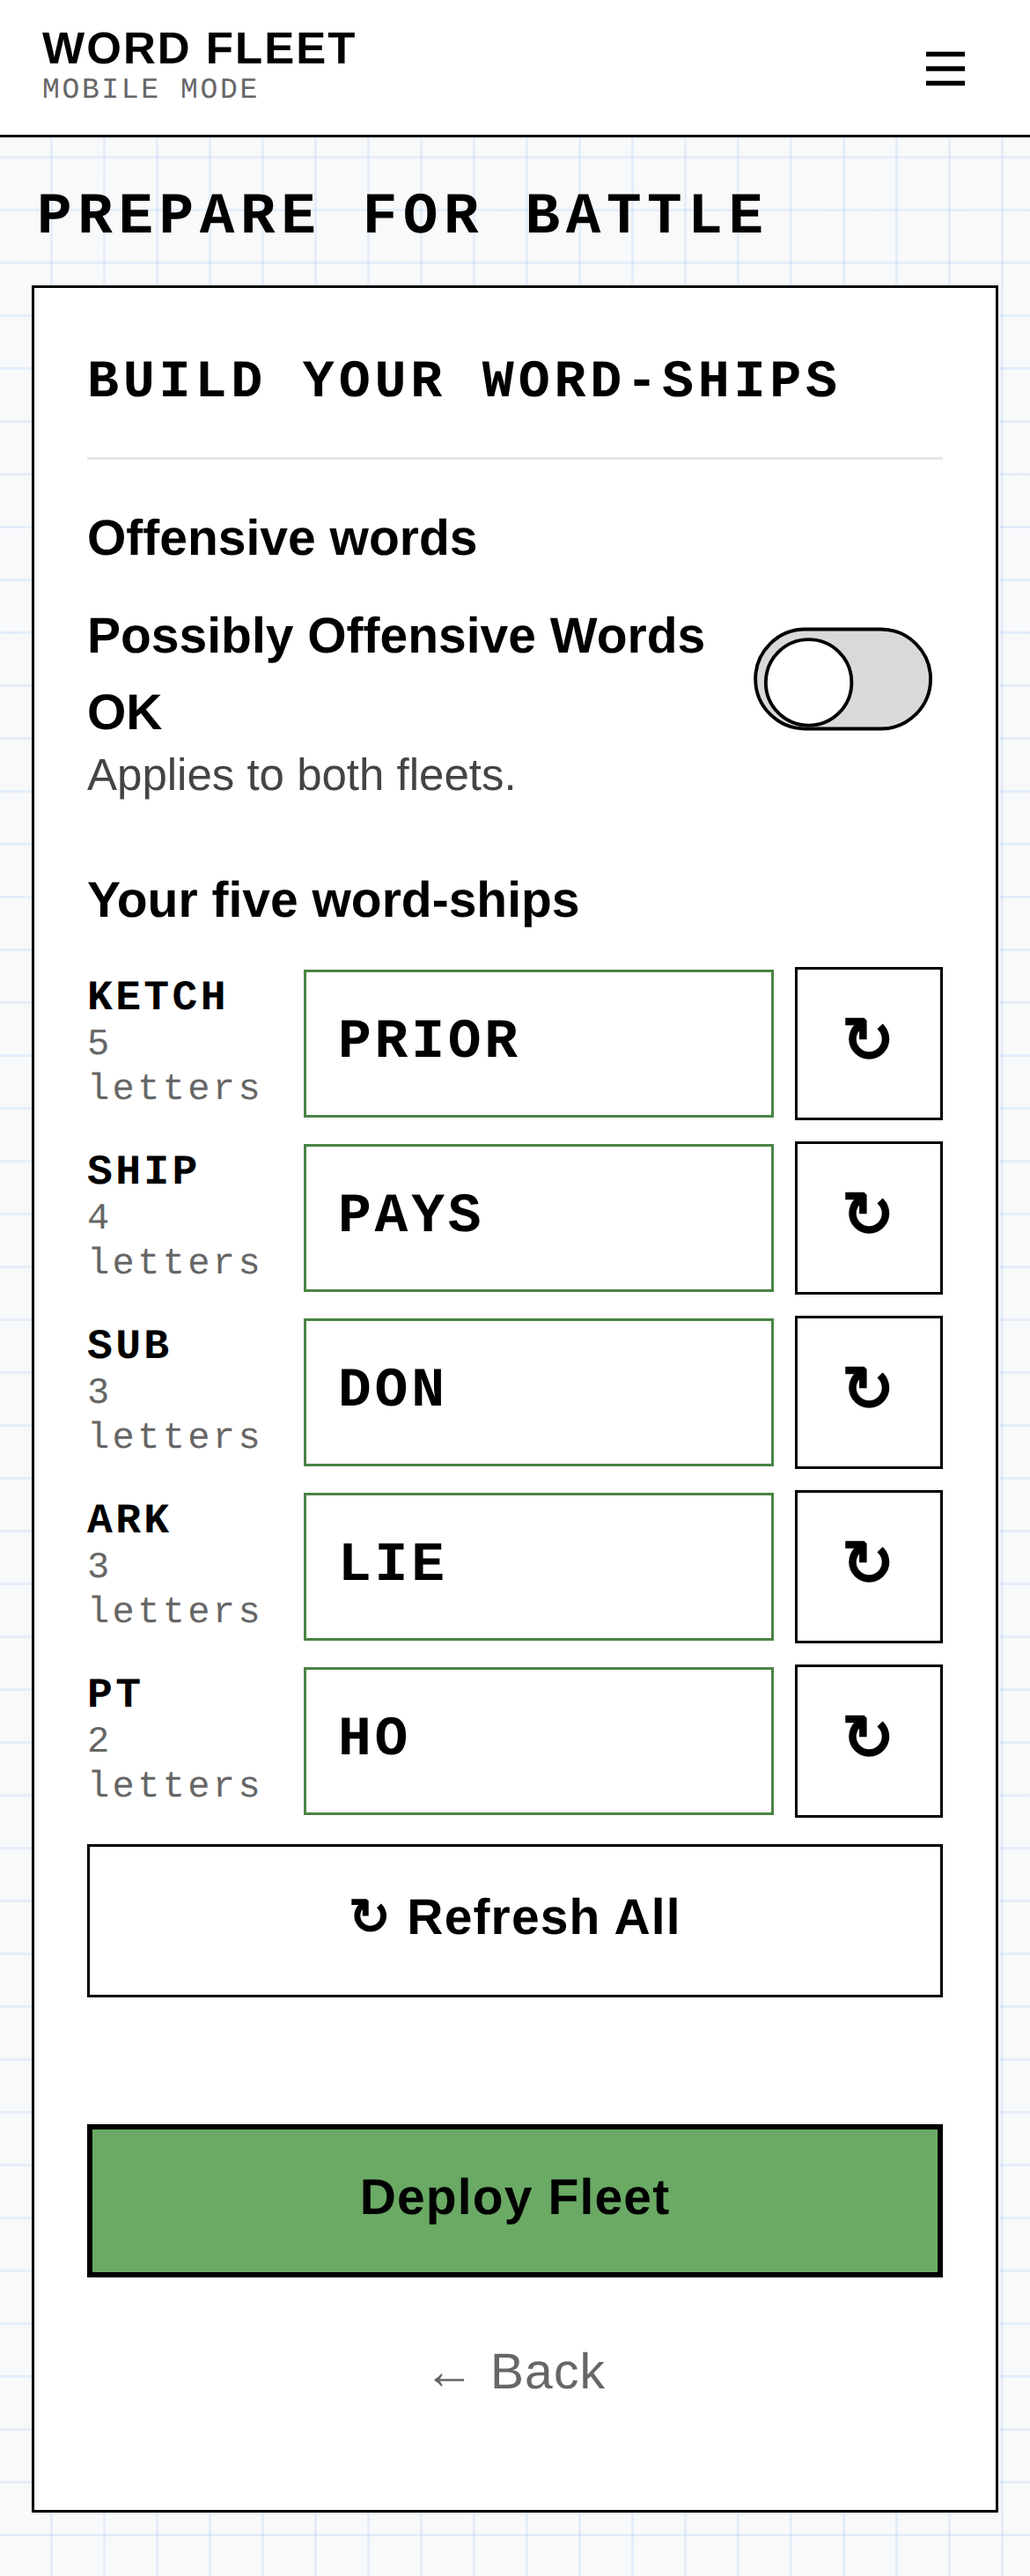
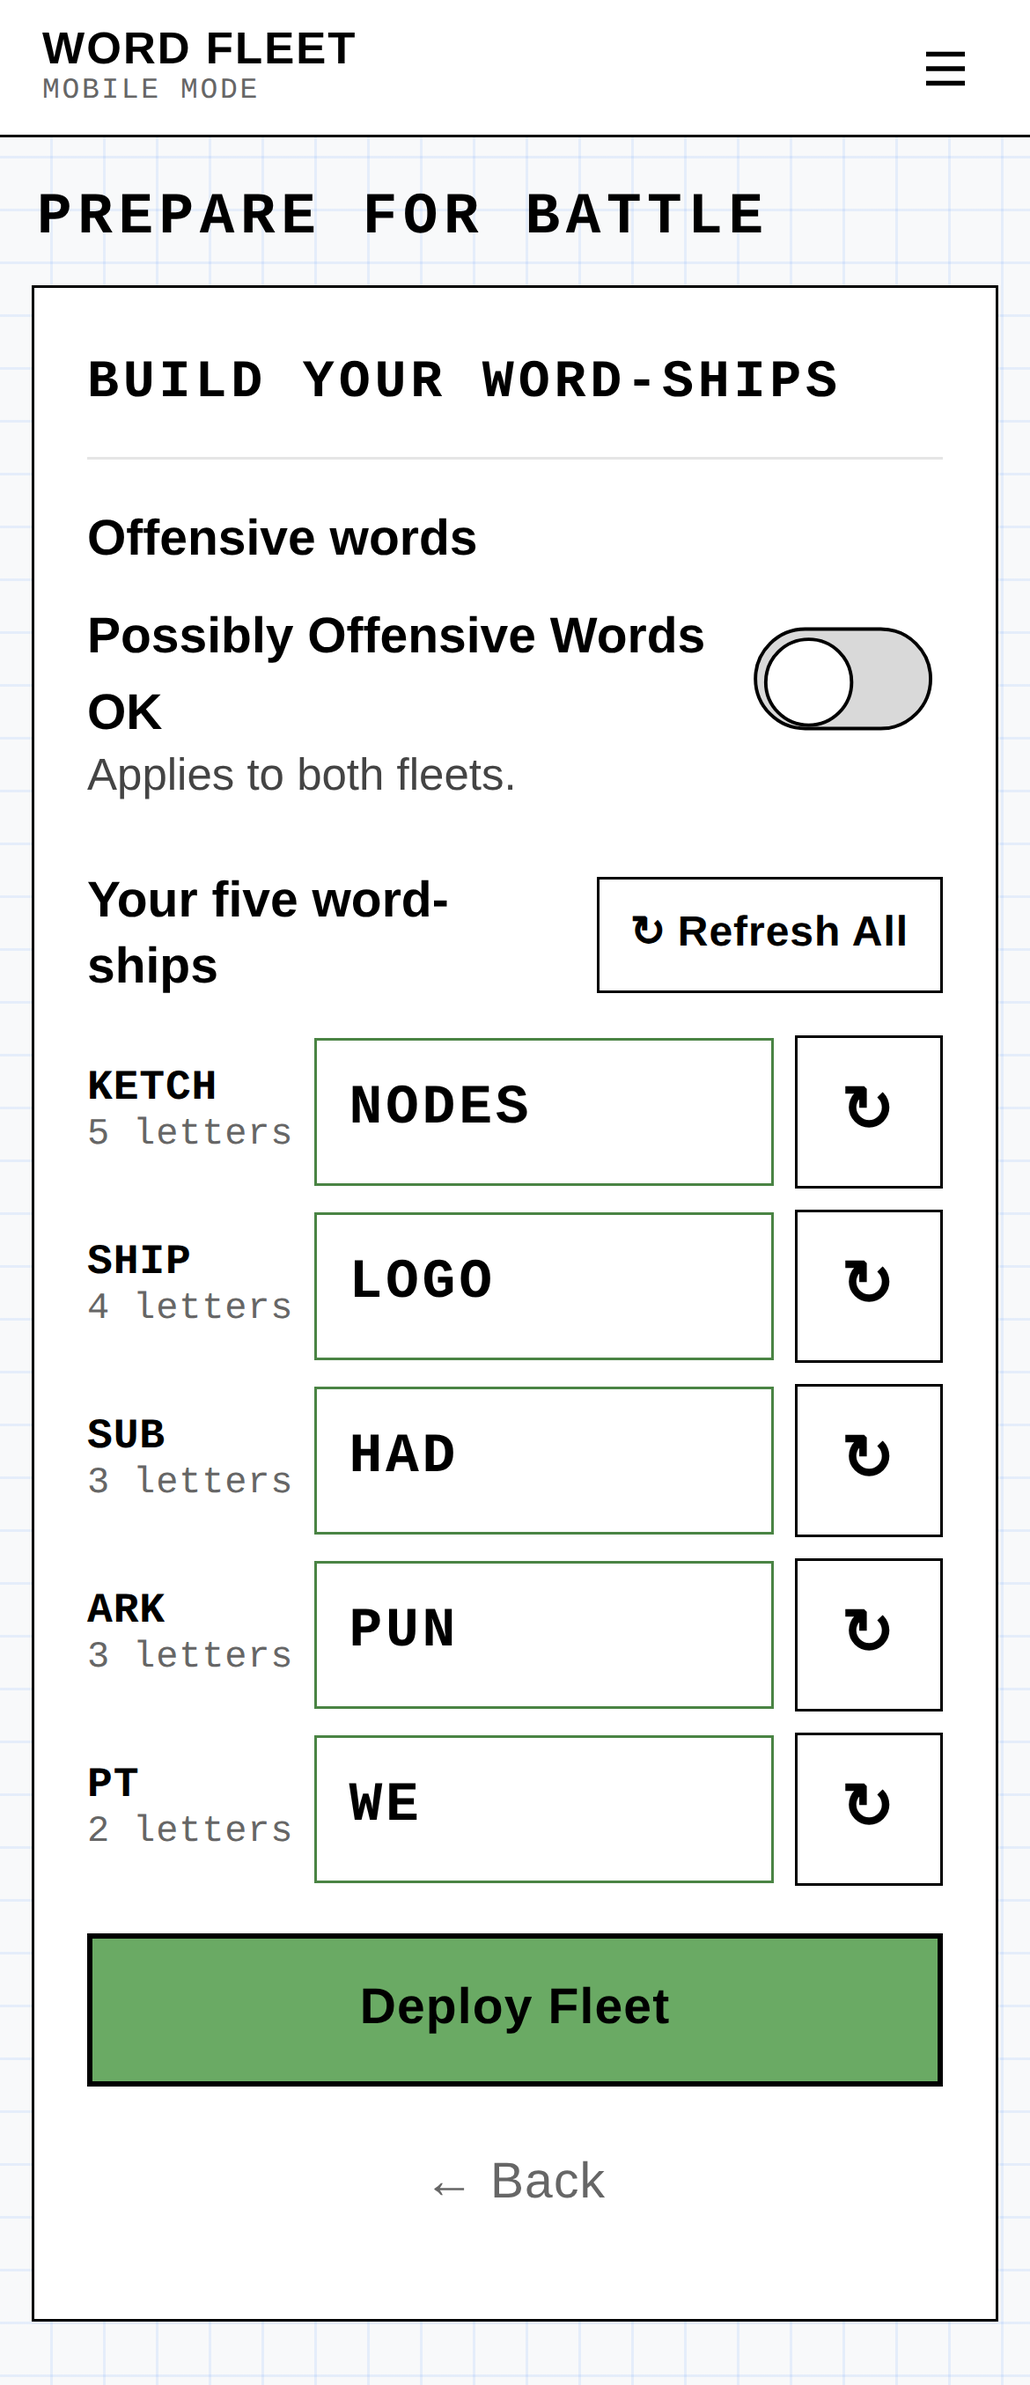
003: Refresh All in the word-ships header, one-line ship labels, no empty gap above Deploy Fleet
Claude-Session: https://claude.ai/code/session_013sUGAAEC45a1EJCrQWVj9Q

diff --git a/mobile/index.html b/mobile/index.html
@@ -18,7 +18,7 @@
   <link rel="preconnect" href="https://fonts.gstatic.com" crossorigin>
   <link href="https://fonts.googleapis.com/css2?family=Courier+Prime:wght@400;700&family=Inter:wght@400;500;600;700&display=swap" rel="stylesheet">
   <!-- Bump ?v= on every release (and CACHE in sw.js) so a new page never runs old code. -->
-  <link rel="stylesheet" href="app.css?v=48">
+  <link rel="stylesheet" href="app.css?v=49">
 </head>
 <body>
 
@@ -97,9 +97,11 @@
       <label class="switch-row switch-row--big"><span>Possibly Offensive Words OK</span><input type="checkbox" class="switch" id="chkOffensive" role="switch"></label>
       <p class="hint hint--tight">Applies to both fleets.</p>
 
-      <span class="label label--say">Your five word-ships</span>
+      <div class="section-head">
+        <span class="label label--say">Your five word-ships</span>
+        <button class="btn btn--sm" id="btnRefreshAll" type="button" aria-label="Refresh all five words">&#x21bb; Refresh All</button>
+      </div>
       <div id="wordList"></div>
-      <button class="btn btn--wide btn--sm-gap" id="btnRefreshAll" type="button">&#x21bb; Refresh All</button>
       <p class="note" id="setupNote"></p>
 
       <button class="btn btn--wide btn--next btn--progress" style="--progress: 100%" id="btnToDeploy" type="button">Deploy Fleet</button>
@@ -217,7 +219,7 @@
 
 <div class="toast" id="toast" hidden></div>
 
-<script src="audio.js?v=48"></script>
-<script src="app.js?v=48"></script>
+<script src="audio.js?v=49"></script>
+<script src="app.js?v=49"></script>
 </body>
 </html>

diff --git a/mobile/app.js b/mobile/app.js
@@ -380,7 +380,7 @@
     var html = '<div class="words">';
     SPECS.forEach(function (spec, i) {
       var w = S.me.words[i] || '';
-      html += '<div class="word"><div class="word-class"><b>' + spec.cls + '</b>' + spec.len + ' letters</div>';
+      html += '<div class="word"><div class="word-class"><b>' + spec.cls + '</b><span class="nowrap">' + spec.len + ' letters</span></div>';
       // Every word is editable; the ↻ redraws just that one.
       html += '<input class="input" data-word="' + i + '" maxlength="' + spec.len + '" value="' + esc(w) + '" ' +
         'autocomplete="off" autocapitalize="characters" autocorrect="off" spellcheck="false" placeholder="' + '_'.repeat(spec.len) + '">' +
@@ -420,7 +420,7 @@
       }
       var flagged = S.me.words.filter(function (w) { return dictSet[w] && !allowed(w); });
       if (flagged.length) {
-        $('setupNote').textContent = flagged.join(', ') + ' may be offensive. Check "Possibly Offensive Words OK" to allow ' + (flagged.length > 1 ? 'them' : 'it') + '.';
+        $('setupNote').textContent = flagged.join(', ') + ' may be offensive. Turn on "Possibly Offensive Words OK" to allow ' + (flagged.length > 1 ? 'them' : 'it') + '.';
         return;
       }
       var unknown = S.me.words.filter(function (w) { return !inDictionary(w); });

diff --git a/mobile/app.css b/mobile/app.css
@@ -440,3 +440,14 @@ button.mf { font: inherit; color: var(--ink); width: 100%; padding: 3px 0 2px; c
 /* Next buttons on 001-003 double as a progress bar: green fills left to right (33%, 67%, 100%). */
 .btn--progress { background: linear-gradient(to right, var(--green) var(--progress, 0%), var(--paper) var(--progress, 0%)); border-width: 2px; }
 .btn--progress:active:not(:disabled) { background: var(--green-dark); color: var(--ink); }
+
+/* 003: section header with its action on the right (Refresh All) */
+.section-head { display: flex; align-items: center; justify-content: space-between; gap: 12px; margin: 22px 0 10px; }
+.section-head .label--say { margin: 0; }
+.setup-big .section-head .btn--sm { font-size: 16px; min-height: 44px; padding: 6px 12px; white-space: nowrap; }
+/* ship class on one line, letter count underneath */
+.nowrap { white-space: nowrap; }
+.setup-big .word { grid-template-columns: max-content minmax(0, 1fr) auto; }
+.setup-big .word-class { letter-spacing: 0.02em; }
+/* the dictionary message takes no room until there is one */
+.setup-big .note:empty { min-height: 0; margin: 0; }

diff --git a/mobile/sw.js b/mobile/sw.js
@@ -1,11 +1,11 @@
 /* Word Fleet service worker: the whole game works offline once loaded. */
-var CACHE = 'wordfleet-v48';
+var CACHE = 'wordfleet-v49';
 var SHELL = [
   './',
   'index.html',
-  'app.css?v=48',
-  'app.js?v=48',
-  'audio.js?v=48',
+  'app.css?v=49',
+  'app.js?v=49',
+  'audio.js?v=49',
   'manifest.webmanifest',
   'icons/icon-180.png',
   'icons/icon-192.png',

diff --git a/mobile/screens/README.md b/mobile/screens/README.md
@@ -10,5 +10,5 @@ referred to by name when asking for changes. Each has a reference snapshot in th
 | **MOBILE-HOME** *(parked)* | `<section id="scrMobileHome" data-screen="MOBILE-HOME">`, `SCREENS.home` | `mobile-home.png` | **Parked, not shown to players.** Kept for later use. Was the first screen: WORD FLEET title, Mobile Mode tag, blurb, New Battle and Rules of Engagement buttons. The app now opens on 001-MOBILE-PREPARE. |
 | **001-MOBILE-PREPARE** | `<section id="scrSetup" data-screen="001-MOBILE-PREPARE">`, `SCREENS.setup` | `001-mobile-prepare.png` | **First screen players see.** Card title "Welcome Captain!". "Choose your language", then "Roll the die or type your own fleet name" (with dice). Changing language rolls a new fleet name in that language (`dictionaries/fleet-names.json`). Button "Next: Choose Your Opponent", filled 33% green as a progress bar. "← Back" goes to the Word Fleet home page (`../`, the site's `index.html`). Screens 001-003 share one look: a "PREPARE FOR BATTLE" page header above the card (`.page-head`), the step's card title, plain-language section headers (`.label--say`), and large, easy-to-read text (`.setup-big`). |
 | **002-MOBILE-OPPONENT** | `<section id="scrOpponent" data-screen="002-MOBILE-OPPONENT">`, `SCREENS.opponent` | `002-mobile-opponent.png` | Card title "Choose Your Opponent", section "Pick the AI Captain you'll face": the three AI Captains (Captain Rubber Duck, Captain Steady, Captain Lexicon), each with a short character sketch. Button "Next: Build Your Word-Ships", filled 67% green. |
-| **003-MOBILE-WORD-SHIPS** | `<section id="scrWords" data-screen="003-MOBILE-WORD-SHIPS">`, `SCREENS.words` | `003-mobile-word-ships.png` | Card title "Build Your Word-Ships". Section "Offensive words": a "Possibly Offensive Words OK" on/off switch, "Applies to both fleets." Section "Your five word-ships": the five word-ships arrive drawn for your opponent and are editable, each with a ↻ redraw; Refresh All; Deploy Fleet (filled 100% green) checks every word against the dictionary. |
+| **003-MOBILE-WORD-SHIPS** | `<section id="scrWords" data-screen="003-MOBILE-WORD-SHIPS">`, `SCREENS.words` | `003-mobile-word-ships.png` | Card title "Build Your Word-Ships". Section "Offensive words": a "Possibly Offensive Words OK" on/off switch, "Applies to both fleets." Section "Your five word-ships" (Refresh All at the right end of its header): the five word-ships arrive drawn for your opponent and are editable, each with a ↻ redraw; Refresh All; Deploy Fleet (filled 100% green) checks every word against the dictionary. |
 | **004-MOBILE-DEPLOY** | `<section id="scrDeploy" data-screen="004-MOBILE-DEPLOY">`, `SCREENS.deploy` | `004-mobile-deploy.png`, `004-mobile-deploy-placed.png` | Place the five word-ships on your Defense Grid: Across/Down, Scatter, Clear, the roster of ships, Confirm Deployment, Change Words. Drag a ship to move it; double-tap its first letter to turn it. |
